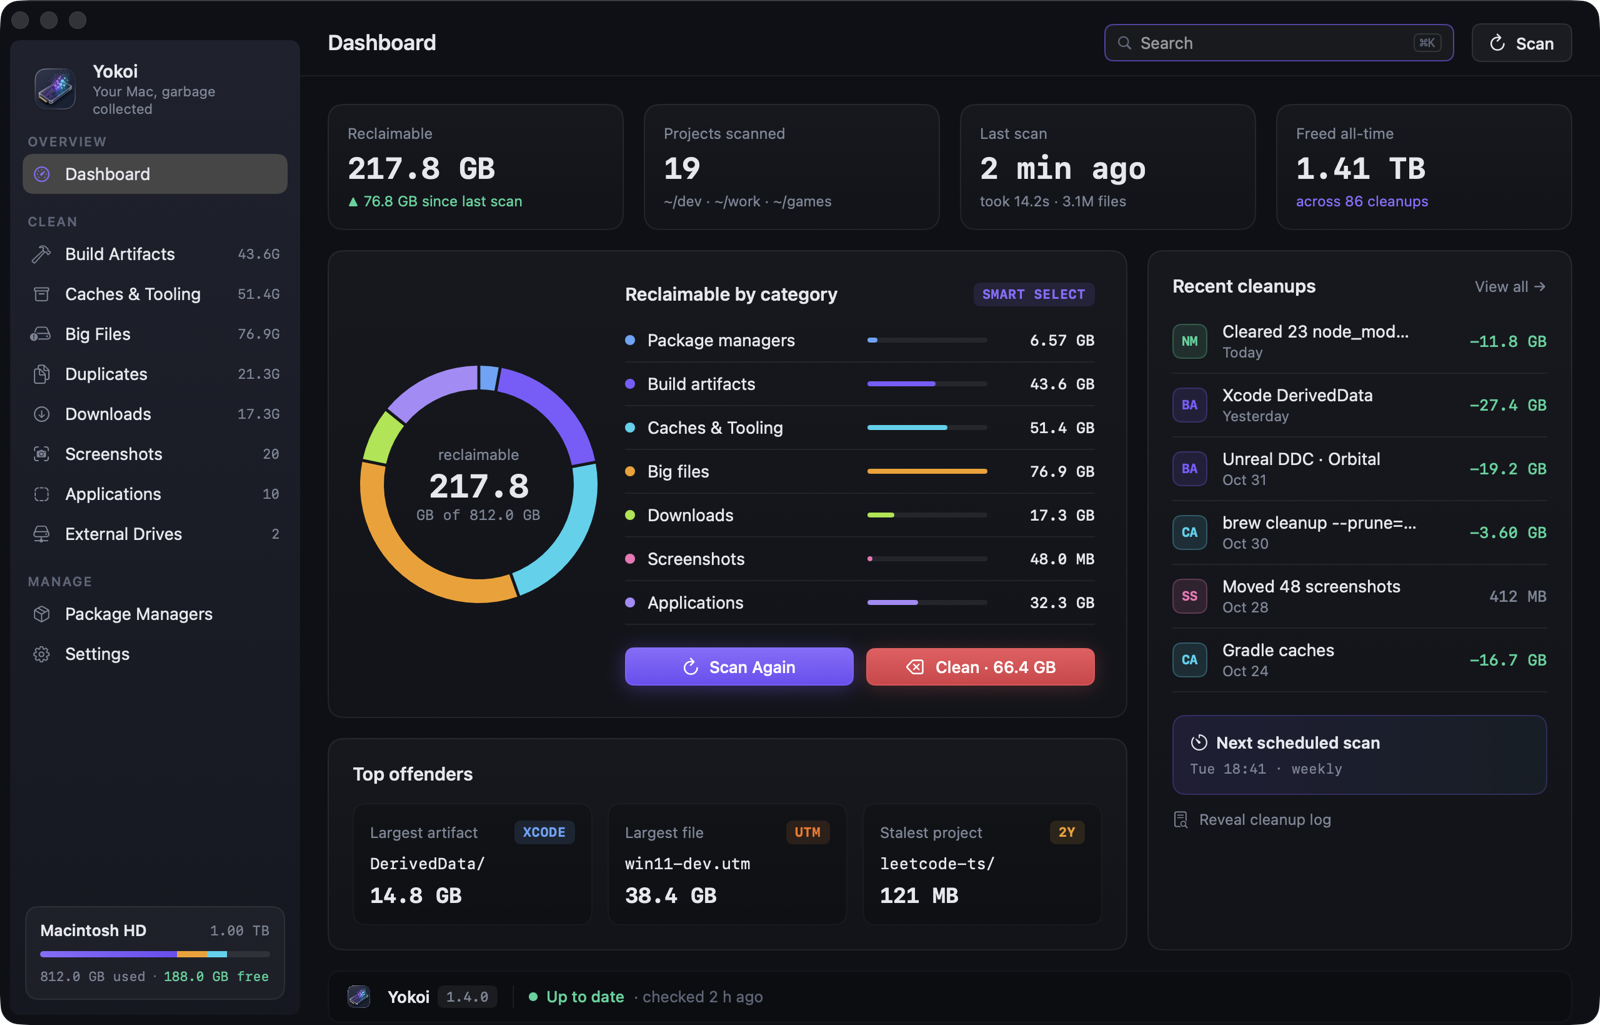
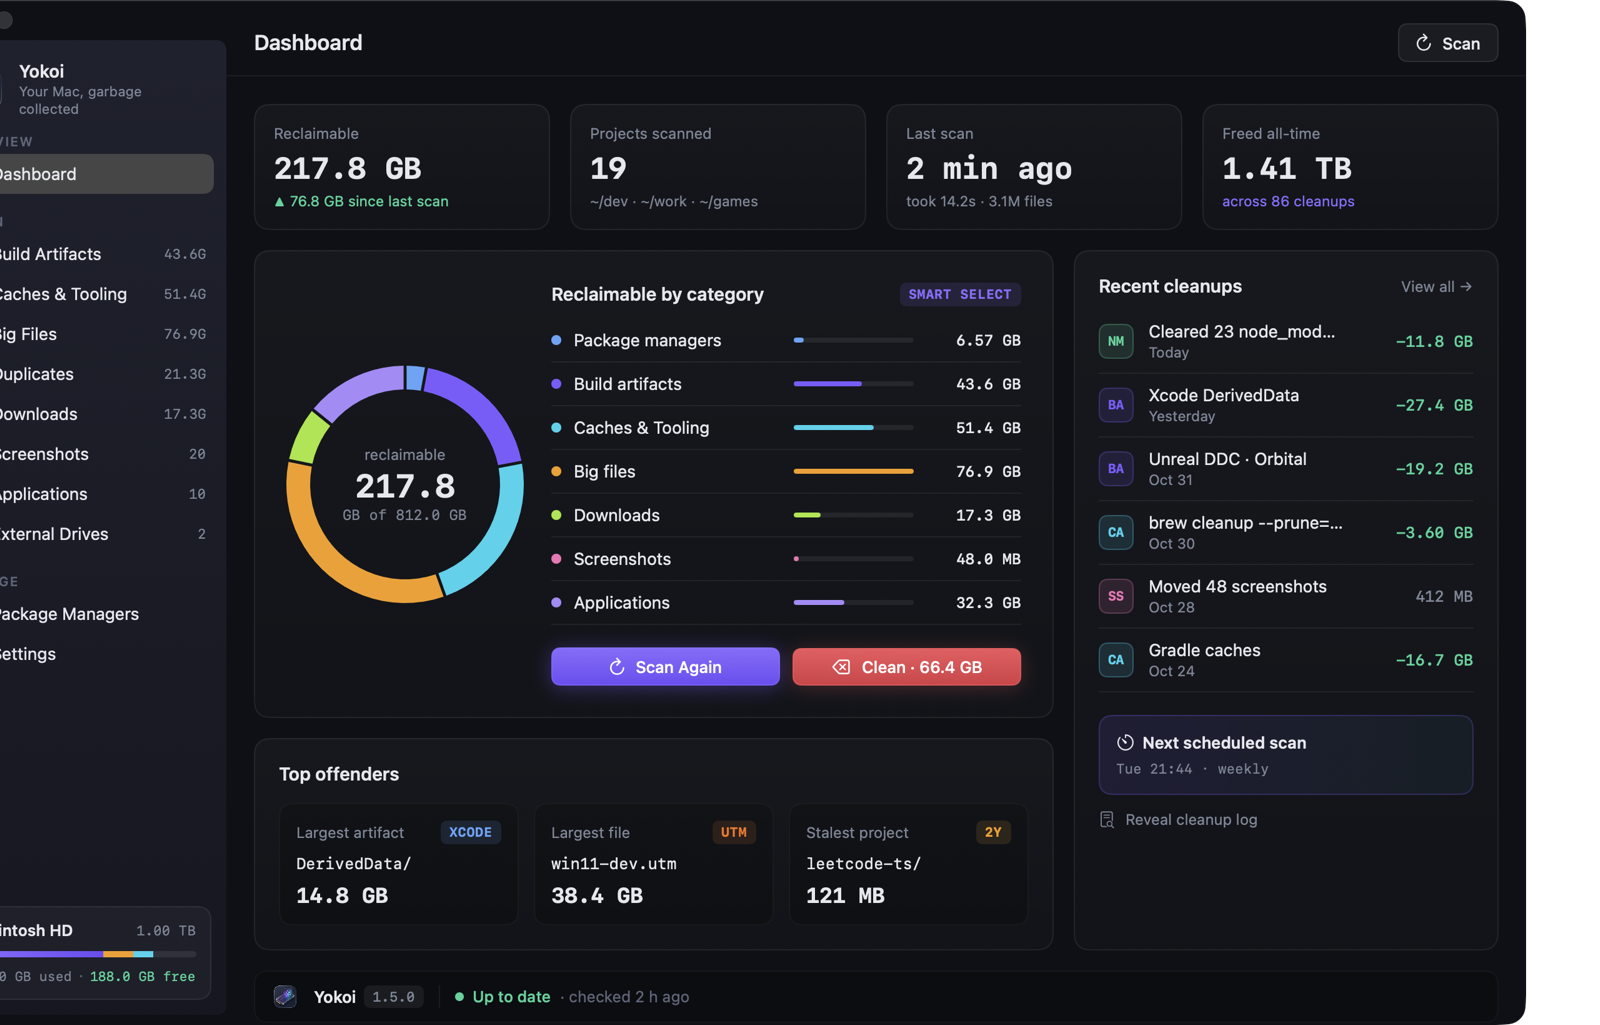
Hide the search field on the Dashboard
Nothing on the Dashboard read it, so typing there did nothing. Refresh the
dashboard screenshots to match, and bring the PRD's Trash rule in line with
--permanent and auto-clean.

diff --git a/Yokoi/Views/DashboardView.swift b/Yokoi/Views/DashboardView.swift
@@ -7,7 +7,7 @@ struct DashboardView: View {
     var body: some View {
         let store = app.store
         VStack(spacing: 0) {
-            HeaderBar(title: "Dashboard") {
+            HeaderBar(title: "Dashboard", showsSearch: false) {
                 if store.isScanning {
                     Button { store.cancelScan() } label: {
                         Label("Stop", systemImage: "stop.fill")

diff --git a/docs/PRD.md b/docs/PRD.md
@@ -155,7 +155,7 @@ Developers' Macs fill up with files they can rebuild or re-download: `node_modul
 ## 6. Deletion safety model
 | Guardrail | Requirement |
 |---|---|
-| Trash by default | All removals use `FileManager.trashItem`. Permanent delete needs an explicit choice each time. |
+| Trash by default | All removals use `FileManager.trashItem` unless permanent delete is chosen: in the confirmation sheet each time, with `--permanent` on the command line, or with the opt-in auto-clean setting. |
 | Dry run | Every clean can run as a preview that lists paths and sizes without changing anything. Settings toggle "Always dry run first". |
 | Exclusions | User paths and globs (for example `**/.git`, `~/Dropbox`) are never scanned or touched. |
 | Active-project protection | Projects touched within N days (default 30) are unselected and flagged. Deleting one needs an extra confirmation. Projects with a running process (open in Xcode/Unity/Unreal, `node` cwd) are blocked. |
